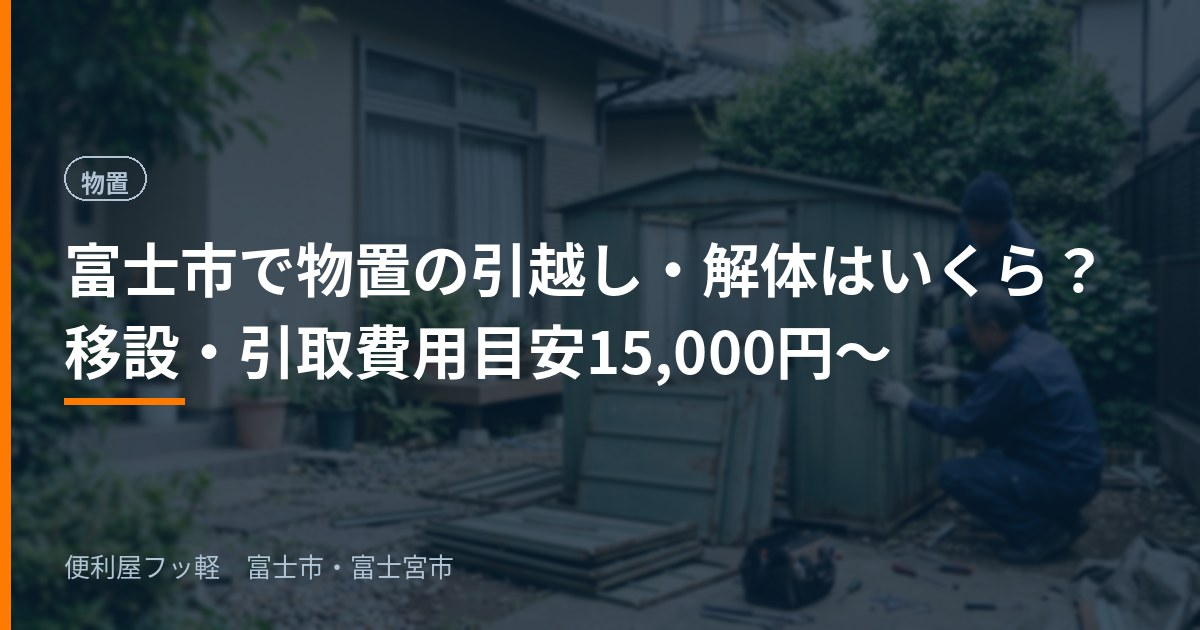
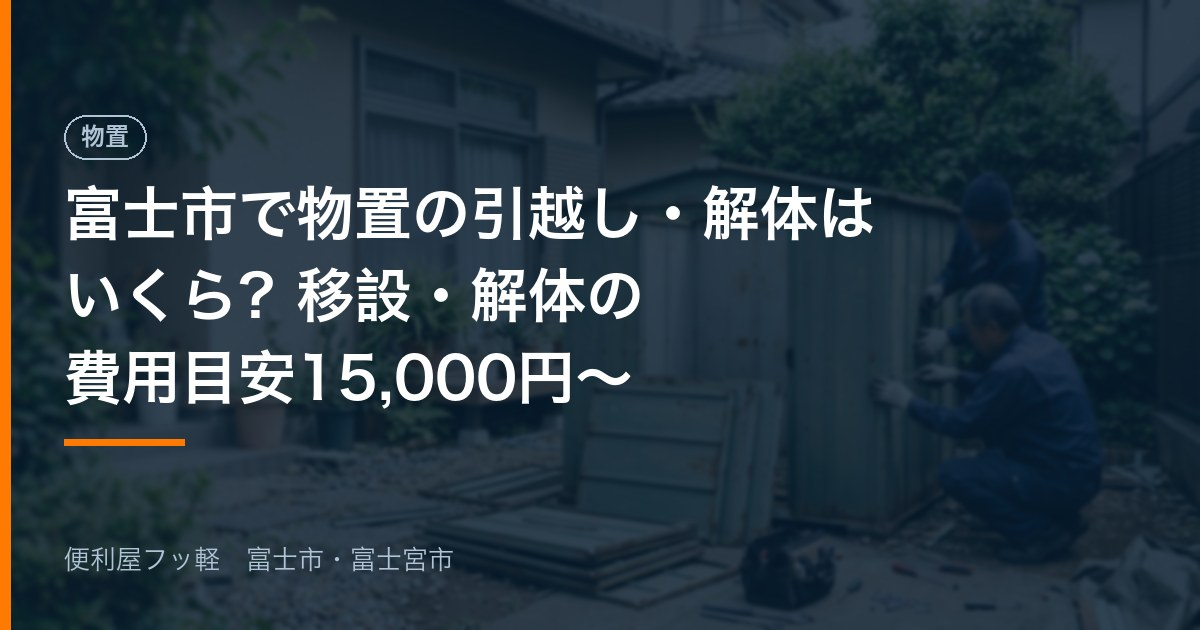
中元さんのお答え3つ：HPの支払い方法をそろえる／物置の引き取りは「サイズにより8,000円〜」／アンカーは受けている (#280)
* 中元さんのお答え3つを入れる：HPの支払い方法をそろえる／物置の引き取りは「サイズにより8,000円〜」／アンカーは受けている

2026-10-12 夜のお答え（原文）：
「土アンカーとコンクリートアンカー、アスファルトアンカーは受けてますが、基礎工事まではやってませんが
 モルタル調整などはしていますね。決済は揃えていいですよ。サイズにより8000円〜かな３番については」

1. HPの支払い方法（決済は揃えていい）
   - 流れ「現金とカードに対応しています」・よくある質問「現金のほか、クレジットカード決済（Stripe）」
     →「現金・振り込み・クレジットカード・PayPay などに対応しています」
   - 構造化データ paymentAccepted に「振り込み」を足した
2. 物置の引き取り（10/10 の記事）：まだ使える物置は「サイズにより8,000円〜」。題名はそのまま
   - 「物置の引き取り・処分を…8,000円〜でお受けしております」（処分に金額が付いて読めた・フッ軽だけで処分すると読めた）
     →「まだ使える物置の引き取りは、サイズにより8,000円〜」「傷んで使えない物置は、一般廃棄物の許可を持つ
       回収業者と、フッ軽が一緒に片付けます」（こちらに金額は付けない）
   - 「解体・運搬費を抑えた引き取りが可能です」（お金の約束）→「買取もご相談いただけます」
   - 見出し・箇条書き・CTA の「引き取り・処分」→「引き取り」。説明文の「お見積もりは無料」→「写真でのお見積もりは無料」
3. 物置の引越し・解体（10/10 の記事）：題名の「移設・引取費用目安15,000円〜」→「移設・解体の費用目安15,000円〜」
   （15,000円〜は設置・解体の額。引き取りは8,000円〜）。題字つきの絵も作り直した（背景は同じ）
4. 固定資産税の記事（10/12）：注記を「転倒防止のアンカーでの固定（土・コンクリート・アスファルト用）は、フッ軽で
   お受けしています。基礎工事まではお受けしていませんが、モルタルでの調整はしています」に

道具の検査：3本とも指摘0。手元の組み立てで、新しい文が出て古い文が消えたのを数えた。

* 物置の引越し・解体の記事：冒頭の引き取りに「まだ使える」を付ける／箇条書きを題名にそろえる（別の目の指摘）

---------

Changed region(s): [[0.0308, 0.181, 0.925, 0.6635], [0.0308, 0.8746, 0.4008, 0.9349], [0.0308, 0.6937, 0.1542, 0.7238]]

diff --git a/src/App.tsx b/src/App.tsx
@@ -42,7 +42,7 @@ const steps = [
   {
     icon: Wallet,
     title: 'お支払い',
-    text: '仕上がりをご確認いただいてからのお支払いです。現金とカードに対応しています。',
+    text: '仕上がりをご確認いただいてからのお支払いです。現金・振り込み・クレジットカード・PayPay などに対応しています。',
   },
 ];
 
@@ -91,7 +91,7 @@ const faqs = [
   },
   {
     q: '支払い方法には何がありますか。',
-    a: '現金のほか、クレジットカード決済（Stripe）に対応しています。作業完了後に、ご希望の方法をお選びください。',
+    a: '現金・振り込み・クレジットカード・PayPay などに対応しています。作業完了後に、ご希望の方法をお選びください。',
   },
 ];
 

diff --git a/index.html b/index.html
@@ -78,7 +78,7 @@
   ],
   "priceRange": "5,000円〜",
   "currenciesAccepted": "JPY",
-  "paymentAccepted": "現金, クレジットカード, PayPay",
+  "paymentAccepted": "現金, 振り込み, クレジットカード, PayPay",
   "founder": {
     "@type": "Person",
     "name": "中元 晋平"
